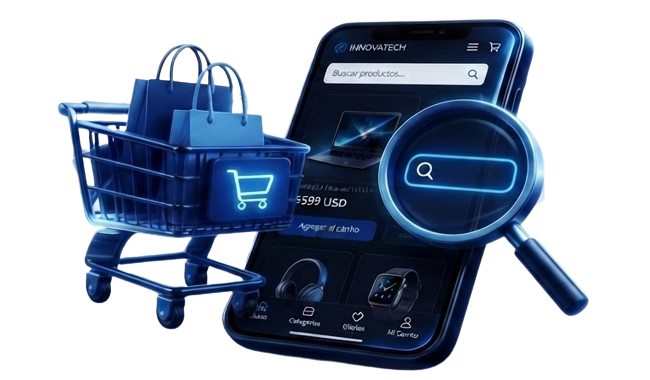
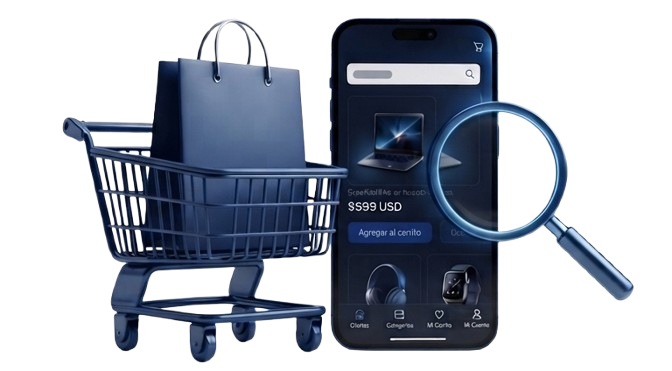
codew

diff --git a/src/routes/+page.svelte b/src/routes/+page.svelte
@@ -22,7 +22,9 @@
     <!-- Botón de acción estilo Apple -->
     <div class="mb-14">
       <a 
-        href="#contacto" 
+        href="https://wa.me/584149430559?text=Hola,%20quiero%20comenzar%20a%20desarrollar%20mi%20página%20web." 
+        target="_blank"
+        rel="noopener noreferrer"
         class="inline-block bg-[#0071e3] hover:bg-[#0077ed] text-white font-medium text-sm md:text-base px-5 py-2 rounded-full transition-all shadow-sm"
       >
         Comenzar
@@ -58,7 +60,9 @@
     <!-- Botón de acción estilo Apple -->
     <div class="mb-12">
       <a 
-        href="#contacto" 
+        href="https://wa.me/584149430559?text=Hola,%20estoy%20interesado%20en%20el%20diseño%20responsive%20para%20mi%20web." 
+        target="_blank"
+        rel="noopener noreferrer"
         class="inline-block bg-[#0071e3] hover:bg-[#0077ed] text-white font-medium text-sm md:text-base px-5 py-2 rounded-full transition-all shadow-sm"
       >
         Contratar
@@ -91,10 +95,9 @@
           Optimiza la experiencia de tus clientes con herramientas de búsqueda avanzada y gestión de compras fluida.
         </p>
         <div class="flex items-center justify-center space-x-4 mb-8">
-          <a href="#contacto" class="bg-[#0071e3] hover:bg-[#0077ed] text-white text-sm font-medium px-4 py-1.5 rounded-full transition-all">
+          <a href="https://wa.me/584149430559?text=Hola,%20quiero%20más%20información%20sobre%20el%20carrito%20de%20compras%20y%20buscador." target="_blank" rel="noopener noreferrer" class="bg-[#0071e3] hover:bg-[#0077ed] text-white text-sm font-medium px-4 py-1.5 rounded-full transition-all">
             Más información
           </a>
-        
         </div>
       </div>
       <div class="w-full max-w-[500px] mt-4 transform hover:scale-[1.02] transition-transform duration-500">
@@ -112,19 +115,155 @@
           Todo lo necesario para poner tu sitio en marcha de forma segura, rápida y sin costos sorpresa iniciales.
         </p>
         <div class="flex items-center justify-center space-x-4 mb-8">
-          <a href="#contacto" class="bg-[#0071e3] hover:bg-[#0077ed] text-white text-sm font-medium px-4 py-1.5 rounded-full transition-all">
+          <a href="https://wa.me/584149430559?text=Hola,%20quiero%20más%20información%20sobre%20el%20dominio%20y%20hosting." target="_blank" rel="noopener noreferrer" class="bg-[#0071e3] hover:bg-[#0077ed] text-white text-sm font-medium px-4 py-1.5 rounded-full transition-all">
             Más información
           </a>
-          <a href="#contacto" class="text-[#0066cc] hover:underline text-sm font-medium flex items-center">
+          <a href="https://wa.me/584149430559?text=Hola,%20quiero%20comprar%20el%20paquete%20con%20dominio%20y%20hosting." target="_blank" rel="noopener noreferrer" class="text-[#0066cc] hover:underline text-sm font-medium flex items-center">
             Comprar &gt;
           </a>
         </div>
       </div>
       <div class="w-full max-w-[500px] mt-4 transform hover:scale-[1.02] transition-transform duration-500">
-        <img src="/hosting.png" alt="Dominio y hosting por 1 año" class="w-full h-auto object-contain mx-auto" />
+        <img src="/dominio.png" alt="Dominio y hosting por 1 año" class="w-full h-auto object-contain mx-auto" />
       </div>
     </div>
 
+  </div>
+</section>
+
+<!-- Sección de Paquetes y Precios -->
+<section class="py-20 px-4 bg-[#f5f5f7] text-[#1d1d1f] font-sans border-t border-[#d2d2d7]">
+  <div class="max-w-[1200px] mx-auto text-center">
+    <h2 class="text-3xl md:text-5xl font-semibold mb-4 tracking-tight">
+      Nuestros Paquetes
+    </h2>
+    <p class="text-[#86868b] text-base md:text-lg max-w-2xl mx-auto mb-16 font-normal">
+      Soluciones adaptadas a cada etapa de tu negocio, con tarifas transparentes y pagos flexibles (50% de adelanto y 50% al entregar).
+    </p>
+
+    <!-- Grid de Paquetes -->
+    <div class="grid grid-cols-1 md:grid-cols-3 gap-8 text-left items-stretch">
+      
+      <!-- Paquete 1: Landing Page -->
+      <div class="bg-[#fbfbfd] p-8 rounded-3xl flex flex-col justify-between shadow-sm border border-[#e5e5ea]">
+        <div>
+          <span class="text-xs font-semibold text-[#0066cc] uppercase tracking-wider">Ideal para empezar</span>
+          <h3 class="text-2xl font-semibold mt-2 mb-1 text-[#1d1d1f]">Landing Page</h3>
+          <p class="text-xs text-[#86868b] mb-4">Emprendedores y profesionales independientes</p>
+          <div class="text-3xl font-semibold text-[#1d1d1f] mb-4">$150 – $180 <span class="text-sm font-normal text-[#86868b]">USD</span></div>
+          <p class="text-xs text-[#0071e3] font-medium mb-6">Entrega estimada: 3 a 5 días</p>
+          
+          <ul class="space-y-3 text-sm text-[#86868b] mb-8">
+            <li class="flex items-start"><span class="text-[#0071e3] mr-2">✓</span> Estructura One-page fluida</li>
+            <li class="flex items-start"><span class="text-[#0071e3] mr-2">✓</span> Hero Section, Beneficios y CTA</li>
+            <li class="flex items-start"><span class="text-[#0071e3] mr-2">✓</span> Prueba social y WhatsApp directo</li>
+            <li class="flex items-start"><span class="text-[#0071e3] mr-2">✓</span> Diseño 100% Responsivo y UI/UX básico</li>
+            <li class="flex items-start"><span class="text-[#0071e3] mr-2">✓</span> Optimización SEO básica</li>
+            <li class="flex items-start"><span class="text-[#0071e3] mr-2">✓</span> Dominio incluído por 1 año</li>
+          </ul>
+        </div>
+        <a href="https://wa.me/584149430559?text=Hola,%20quiero%20elegir%20el%20paquete%20Landing%20Page." target="_blank" rel="noopener noreferrer" class="block text-center bg-[#0071e3] hover:bg-[#0077ed] text-white text-sm font-medium py-2.5 rounded-full transition-all shadow-sm">
+          Elegir Landing
+        </a>
+      </div>
+
+      <!-- Paquete 2: Página Web Profesional -->
+      <div class="bg-[#fbfbfd] p-8 rounded-3xl flex flex-col justify-between shadow-md border-2 border-[#0071e3] relative">
+        <div class="absolute -top-3 left-1/2 transform -translate-x-1/2 bg-[#0071e3] text-white text-[10px] uppercase font-semibold px-3 py-1 rounded-full tracking-wider">
+          Más popular
+        </div>
+        <div>
+          <span class="text-xs font-semibold text-[#0066cc] uppercase tracking-wider">PyMEs y Negocios</span>
+          <h3 class="text-2xl font-semibold mt-2 mb-1 text-[#1d1d1f]">Web Profesional</h3>
+          <p class="text-xs text-[#86868b] mb-4">Empresas que buscan presencia completa</p>
+          <div class="text-3xl font-semibold text-[#1d1d1f] mb-4">$200 – $250 <span class="text-sm font-normal text-[#86868b]">USD</span></div>
+          <p class="text-xs text-[#0071e3] font-medium mb-6">Entrega estimada: 1 a 2 semanas</p>
+          
+          <ul class="space-y-3 text-sm text-[#86868b] mb-8">
+            <li class="flex items-start"><span class="text-[#0071e3] mr-2">✓</span> 4 a 6 páginas internas</li>
+            <li class="flex items-start"><span class="text-[#0071e3] mr-2">✓</span> Diseño 100% Responsivo</li>
+            <li class="flex items-start"><span class="text-[#0071e3] mr-2">✓</span> Blog integrado y SEO avanzado</li>
+            <li class="flex items-start"><span class="text-[#0071e3] mr-2">✓</span> Formularios de contacto</li>
+            <li class="flex items-start"><span class="text-[#0071e3] mr-2">✓</span> Dominio incluído por 1 año</li>
+          </ul>
+        </div>
+        <a href="https://wa.me/584149430559?text=Hola,%20quiero%20elegir%20el%20paquete%20Web%20Profesional." target="_blank" rel="noopener noreferrer" class="block text-center bg-[#0071e3] hover:bg-[#0077ed] text-white text-sm font-medium py-2.5 rounded-full transition-all shadow-sm">
+          Elegir Profesional
+        </a>
+      </div>
+
+      <!-- Paquete 3: Tienda Online -->
+      <div class="bg-[#fbfbfd] p-8 rounded-3xl flex flex-col justify-between shadow-sm border border-[#e5e5ea]">
+        <div>
+          <span class="text-xs font-semibold text-[#0066cc] uppercase tracking-wider">E-commerce</span>
+          <h3 class="text-2xl font-semibold mt-2 mb-1 text-[#1d1d1f]">Tienda Online</h3>
+          <p class="text-xs text-[#86868b] mb-4">Venta masiva de productos físicos o digitales</p>
+          <div class="text-3xl font-semibold text-[#1d1d1f] mb-4">$200 – $350+ <span class="text-sm font-normal text-[#86868b]">USD</span></div>
+          <p class="text-xs text-[#0071e3] font-medium mb-6">Entrega estimada: 2 a 4 semanas</p>
+          
+          <ul class="space-y-3 text-sm text-[#86868b] mb-8">
+            <li class="flex items-start"><span class="text-[#0071e3] mr-2">✓</span> Catálogo completo y variantes</li>
+            <li class="flex items-start"><span class="text-[#0071e3] mr-2">✓</span> Métodos de pago</li>
+            <li class="flex items-start"><span class="text-[#0071e3] mr-2">✓</span> Carrito y Checkout optimizado</li>
+            <li class="flex items-start"><span class="text-[#0071e3] mr-2">✓</span> Gestión de cátalogo y stock</li>
+            <li class="flex items-start"><span class="text-[#0071e3] mr-2">✓</span> Dominio incluído por 1 año</li>
+          </ul>
+        </div>
+        <a href="https://wa.me/584149430559?text=Hola,%20quiero%20elegir%20el%20paquete%20Tienda%20Online." target="_blank" rel="noopener noreferrer" class="block text-center bg-[#0071e3] hover:bg-[#0077ed] text-white text-sm font-medium py-2.5 rounded-full transition-all shadow-sm">
+          Elegir Tienda
+        </a>
+      </div>
+
+    </div>
+  </div>
+</section>
+
+<!-- Sección de Proceso de Trabajo (Propuesta Inicial y Adelanto) -->
+<section class="py-20 px-4 bg-[#f5f5f7] text-[#1d1d1f] font-sans border-t border-[#d2d2d7]">
+  <div class="max-w-[1200px] mx-auto text-center">
+    <h2 class="text-3xl md:text-5xl font-semibold mb-4 tracking-tight">
+      ¿Cómo trabajamos?
+    </h2>
+    <p class="text-[#86868b] text-base md:text-lg max-w-2xl mx-auto mb-16 font-normal">
+      Un proceso transparente y sin riesgos para llevar tu idea al siguiente nivel de forma segura.
+    </p>
+
+    <!-- Grid de Pasos -->
+    <div class="grid grid-cols-1 md:grid-cols-2 gap-8 text-left items-stretch max-w-[900px] mx-auto">
+      
+      <!-- Paso 1 -->
+      <div class="bg-[#fbfbfd] p-8 rounded-3xl flex flex-col justify-between shadow-sm border border-[#e5e5ea]">
+        <div>
+          <span class="text-xs font-semibold text-[#0066cc] uppercase tracking-wider">Paso 01</span>
+          <h3 class="text-2xl font-semibold mt-2 mb-2 text-[#1d1d1f]">Propuesta Inicial</h3>
+          <p class="text-sm text-[#86868b] leading-relaxed">
+            Analizamos tus requerimientos y elaboramos una propuesta inicial con el diseño y la estructura visual de tu proyecto sin compromiso.
+          </p>
+        </div>
+        <div class="mt-6">
+          <span class="inline-block text-xs font-medium text-[#0071e3] bg-[#0071e3]/10 px-3 py-1 rounded-full">
+            100% Gratis y a tu medida
+          </span>
+        </div>
+      </div>
+
+      <!-- Paso 2 -->
+      <div class="bg-[#fbfbfd] p-8 rounded-3xl flex flex-col justify-between shadow-sm border border-[#e5e5ea]">
+        <div>
+          <span class="text-xs font-semibold text-[#0066cc] uppercase tracking-wider">Paso 02</span>
+          <h3 class="text-2xl font-semibold mt-2 mb-2 text-[#1d1d1f]">Abono y Desarrollo</h3>
+          <p class="text-sm text-[#86868b] leading-relaxed">
+            Si la propuesta te agrada, abonas el 50% restante del pago inicial para comenzar oficialmente con el desarrollo completo del proyecto.
+          </p>
+        </div>
+        <div class="mt-6">
+          <a href="https://wa.me/584149430559?text=Hola,%20quiero%20solicitar%20mi%20propuesta%20inicial." target="_blank" rel="noopener noreferrer" class="inline-block text-sm font-medium text-[#0066cc] hover:underline">
+            Solicitar propuesta &gt;
+          </a>
+        </div>
+      </div>
+
+    </div>
   </div>
 </section>
 
